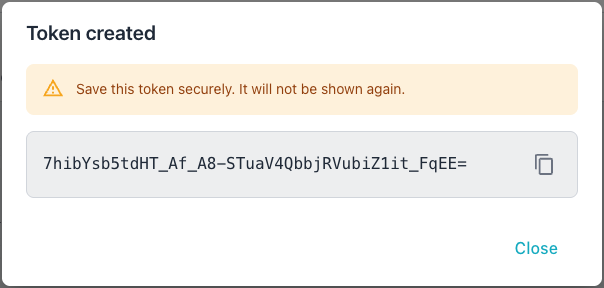
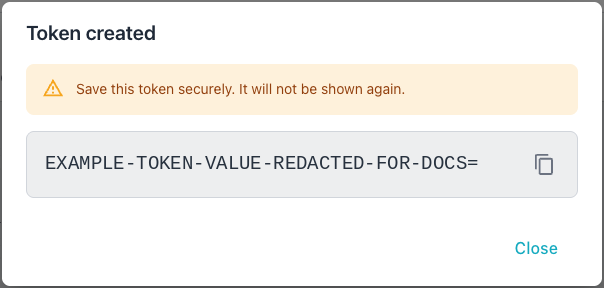
docs(admin-guide): clean up users/permissions restructure (review fixes)
Address review findings on the documentation reorganisation:

- Redact two credential-shaped example tokens that should never have
  appeared in public docs: the bearer token in the admin-guide index
  curl example becomes <api_token>, and the generated token shown in
  the new_token.png screenshot is replaced with an obvious placeholder.
- Resync the README table of contents with the mkdocs navigation,
  adding the nested Managing Users and Permissions section and the
  missing password and TLS pages, and matching the nav ordering.
- Point inbound links that still read Authentication at their actual
  destination by relabelling them Managing Users and Permissions, and
  align the permission-model link to accounts with that page's title.
- Correct the authentication-flow wording so the client, not the
  session, receives the session token.
- Sweep trailing whitespace, collapsed multiple blank lines, mid
  sentence double spaces, and one over-length prose line.

Changed region(s): [[0.0596, 0.5312, 0.8046, 0.5938]]

diff --git a/docs/admin-guide/managing-users-and-permissions/accounts.md b/docs/admin-guide/managing-users-and-permissions/accounts.md
@@ -27,7 +27,6 @@ permission, and authentication details:
 | `group_members` | Tracks user and nested group memberships within each group. |
 | `token_scope` | Restricts tokens to specific connections, MCP privileges, and admin permissions. |
 
-
 ## Adding a User or Service Account
 
 A *User account* authenticates with a username and password to receive a
@@ -40,7 +39,7 @@ at the command line.
 
 To use the Workbench GUI to add an account, authenticate with the Workbench
 console as an administrative user, and select the `Settings` icon in the
-upper-right corner of the Workbench console.  Select Users from the left
+upper-right corner of the Workbench console. Select Users from the left
 navigation pane, and then select the `+ Create User` icon in the upper-right
 corner of the `Users` page.
 
@@ -91,7 +90,7 @@ When prompted, provide the following:
 - Annotation or note (optional)
 
 You can also provide required fields when you use the `-add-user` flag to
-create a user in non-interactive mode. In the following example, the 
+create a user in non-interactive mode. In the following example, the
 `-add-user` command supplies the username, password, and a note in key/value
 pairs:
 
@@ -164,8 +163,8 @@ properties.
 
 To update the details associated with an account in the console, navigate to
 the `Users` page and select the edit icon (the pencil) at the far-right of the
-account listing you wish to modify. The `Edit user` dialog opens, allowing you to
-modify:
+account listing you wish to modify. The `Edit user` dialog opens, allowing
+you to modify:
 
 - the `Password` associated with the account.
 - the `Display Name`.
@@ -264,7 +263,7 @@ The following properties control lockout behavior:
   attempts allowed from a single IP address within the rate-limit window
   before that IP is blocked; the default is `10`.
 - The `max_failed_attempts_before_lockout` setting controls the number of
-  failed authentication attempts before locking  an account; a value of `0`
+  failed authentication attempts before locking an account; a value of `0`
   disables the property.
 - `max_user_token_days` controls the maximum lifetime in days for user-created
   tokens; a value of `0` allows you to use tokens with unlimited lifetime.

diff --git a/docs/admin-guide/managing-users-and-permissions/permission_model.md b/docs/admin-guide/managing-users-and-permissions/permission_model.md
@@ -45,7 +45,6 @@ request:
 A superuser short-circuits this sequence; the Workbench grants every request
 from a superuser account regardless of group or scope.
 
-
 ## Accounts and Roles
 
 Permissions apply to two kinds of accounts.
@@ -62,7 +61,7 @@ A superuser holds a special role that bypasses all permission checks. This
 allows a superuser to reach every connection, invoke every MCP tool, and
 perform every administrative operation. An administrator may grant the
 superuser role when they create or edit an account. For details on creating
-and managing accounts, see [Creating and Managing Accounts](accounts.md).
+and managing accounts, see [Account Management](accounts.md).
 
 ## Groups and Privileges
 
@@ -112,7 +111,6 @@ flags assign and remove privileges for a group:
 For detailed information about creating groups and managing their membership,
 see [Group Management](group.md).
 
-
 ## Token Scopes
 
 A token carries the permissions of the account that owns it. A token's
@@ -134,7 +132,7 @@ supports three scope types:
 
 Each scope type supports a wildcard that grants access to all items of that
 type the owner holds. A connection scope can lower a token to `read` even when
-the owner holds `read_write` access through a group. 
+the owner holds `read_write` access through a group.
 
 !!! hint
 
@@ -160,7 +158,7 @@ details on creating tokens and setting their scopes, see
 ## Administrative Permissions
 
 Administrative (or `ADMIN`) permissions control access to management
-operations in the Workbench's  `Administration` console and the REST API.
+operations in the Workbench's `Administration` console and the REST API.
 Privileged users assign these permissions through groups, alongside connection
 and MCP privileges. A superuser bypasses these checks and holds every
 administrative permission automatically.
@@ -185,7 +183,6 @@ Each permission allows a specific class of management operation; for example,
 
 For detailed instructions about assigning permissions to a group, see
 [Permission Management](permission_mgmt.md).
-
 
 ## Related Pages
 

diff --git a/README.md b/README.md
@@ -46,9 +46,16 @@
   - [MCP Tools](docs/user-guide/mcp-tools.md)
 - Administrator's Guide:
   - [Overview](docs/admin-guide/index.md)
-  - [Verifying the Health of Components](docs/admin-guide/verify_health.md)
-  - [Users & Authentication](docs/admin-guide/managing-users-and-permissions/permission_model.md)
+  - Managing Users and Permissions:
+    - [Understanding the Workbench Permission Model](docs/admin-guide/managing-users-and-permissions/permission_model.md)
+    - [Account Management](docs/admin-guide/managing-users-and-permissions/accounts.md)
+    - [Group Management](docs/admin-guide/managing-users-and-permissions/group.md)
+    - [Token Management](docs/admin-guide/managing-users-and-permissions/tokens.md)
+    - [Permission Management](docs/admin-guide/managing-users-and-permissions/permission_mgmt.md)
+  - [Enforcing the Password Policy](docs/admin-guide/password.md)
   - [Connection Management](docs/admin-guide/connections.md)
+  - [TLS & Reverse Proxy](docs/admin-guide/tls-and-reverse-proxy.md)
+  - [Verifying the Health of Components](docs/admin-guide/verify_health.md)
   - [Alert Rules & Thresholds](docs/admin-guide/alert-rules.md)
   - [Notification Channels](docs/admin-guide/notification-channels.md)
   - [Probe Configuration](docs/admin-guide/probes.md)

diff --git a/docs/admin-guide/index.md b/docs/admin-guide/index.md
@@ -29,7 +29,6 @@ manage a Workbench deployment:
 - The `Webhook Channels` tab manages the webhook endpoints that receive alert
   notifications from the Workbench.
 
-
 ## Security Best Practices
 
 The following practices help protect user credentials, API tokens, and active
@@ -60,9 +59,6 @@ Follow these guidelines for session management:
 - Implement proper logout with token deletion.
 - Monitor the server logs for suspicious activity.
 
-
-
-
 ## Understanding Authentication Flow
 
 Interactive users authenticate with a username and password to obtain a
@@ -71,7 +67,7 @@ token expires:
 
 1. A user authenticates with a username and password using the login API.
 
-2. The session receives the session token in the response.
+2. The client receives the session token in the response.
 
 3. The user can use the session token for subsequent requests until the token
    expires.
@@ -85,12 +81,10 @@ In the following example, an API token authenticates a request:
 
 ```bash
 curl -X POST http://localhost:8080/mcp/v1 \
-  -H "Authorization: Bearer O9ms9jqT...GdQ=" \
+  -H "Authorization: Bearer <api_token>" \
   -H "Content-Type: application/json" \
   -d '{"jsonrpc":"2.0","id":1,"method":"tools/list"}'
 ```
-
-
 
 ## Error Responses
 

diff --git a/docs/admin-guide/managing-users-and-permissions/tokens.md b/docs/admin-guide/managing-users-and-permissions/tokens.md
@@ -33,12 +33,11 @@ that type:
   holds.
 
 The effective access for a scoped token equals the intersection of the owner's
-group-level access and the token scope. 
+group-level access and the token scope.
 
 !!! note
 
     A token cannot exceed the access level of the owner.
-
 
 ## Creating a Token
 
@@ -171,8 +170,8 @@ ID   Hash Prefix        Owner     Super  Svc    Expires          Status
 ### Removing Tokens
 
 You can delete a token in the Workbench console's `Tokens` table or at the
-command line.  To delete a token in the console, select the `Delete` icon
-(the garbage can) at the far-right of a token entry.  A popup opens, asking
+command line. To delete a token in the console, select the `Delete` icon
+(the garbage can) at the far-right of a token entry. A popup opens, asking
 you to confirm that you wish to delete the token:
 
 ![The list of tokens](../../images/delete_token.png)

diff --git a/docs/admin-guide/managing-users-and-permissions/permission_mgmt.md b/docs/admin-guide/managing-users-and-permissions/permission_mgmt.md
@@ -148,7 +148,6 @@ the group. Once granted, the new permission is displayed on a new row in the
 To revoke a permission, select the `Delete` icon across from the permission
 name. The console revokes the permission from the group immediately.
 
-
 ### MCP Permissions
 
 You can manage MCP permissions in the Workbench console or at the command
@@ -158,7 +157,7 @@ The `MCP Permissions` section displays the MCP tools and resources that can be
 accessed by the selected group.
 
 The following table lists the MCP tools and resources available for a group,
-organized by category; the `All MCP Privileges` wildcard grants access to 
+organized by category; the `All MCP Privileges` wildcard grants access to
 every tool in the table:
 
 | Group | Tool | Description |

diff --git a/docs/admin-guide/managing-users-and-permissions/group.md b/docs/admin-guide/managing-users-and-permissions/group.md
@@ -67,8 +67,8 @@ Then, select `Add` to add the member and close the popup.
 
 You can also add members at the command line with the `-add-member` command:
 
-- Include the `-username` flag to add a user or service account. 
-- Include the `-member-group` flag to add a nested group. 
+- Include the `-username` flag to add a user or service account.
+- Include the `-member-group` flag to add a nested group.
 
 You must specify only one of these flags; the command rejects both flags if
 used together.
@@ -119,7 +119,7 @@ group.
 
 ![Listing group details in the console](../../images/group_details.png)
 
-The expanded view displays: 
+The expanded view displays:
 
 - The group's members and their account types in the `MEMBERS`
   section.

diff --git a/docs/user-guide/ai/mcp-clients.md b/docs/user-guide/ai/mcp-clients.md
@@ -17,7 +17,7 @@ configuring a client.
 - An API token is required for authentication. Create
   tokens through the admin panel under Security >
   Tokens, or use the REST API. See
-  [Users & Authentication](../../admin-guide/managing-users-and-permissions/permission_model.md)
+  [Managing Users and Permissions](../../admin-guide/managing-users-and-permissions/permission_model.md)
   for details on token management.
 
 ## Endpoint

diff --git a/docs/admin-guide/notification-channels.md b/docs/admin-guide/notification-channels.md
@@ -449,7 +449,7 @@ objects:
 
 - [Alert Rules](alert-rules.md) describes the rules
   that trigger notifications.
-- [Authentication](managing-users-and-permissions/permission_model.md) covers the
+- [Managing Users and Permissions](managing-users-and-permissions/permission_model.md) covers the
   permissions required for channel management.
 - [API Reference](api/reference.md) provides
   interactive API documentation.

diff --git a/docs/admin-guide/connections.md b/docs/admin-guide/connections.md
@@ -223,7 +223,7 @@ standard JSON format:
 
 ## Related Documentation
 
-- [Authentication](managing-users-and-permissions/permission_model.md) covers tokens and
+- [Managing Users and Permissions](managing-users-and-permissions/permission_model.md) covers tokens and
   access control.
 - [API Reference](api/reference.md) provides
   interactive API documentation.

diff --git a/docs/admin-guide/api/server-info.md b/docs/admin-guide/api/server-info.md
@@ -30,7 +30,7 @@ returns a `403 Forbidden` response when the
 authenticated user lacks access to the connection.
 
 For authentication details, see
-[Authentication](../managing-users-and-permissions/permission_model.md).
+[Managing Users and Permissions](../managing-users-and-permissions/permission_model.md).
 
 ## Server Information Endpoint
 

diff --git a/docs/user-guide/index.md b/docs/user-guide/index.md
@@ -40,8 +40,6 @@ entry.
 For detailed information about using the Workbench, see the
 [User Guide](../user-guide/index.md).
 
-
-
 The cluster navigator on the left side of the interface provides
 tree-based navigation across groups, clusters, and individual servers.
 Select a node in the navigator to view dashboards, alerts, and AI
